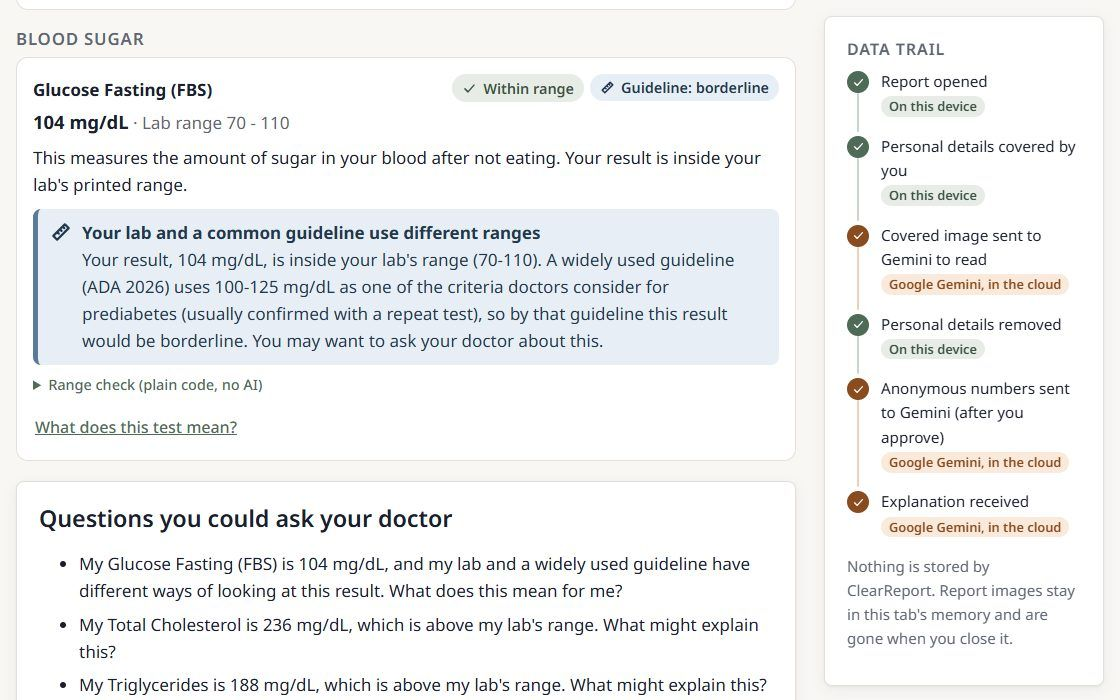
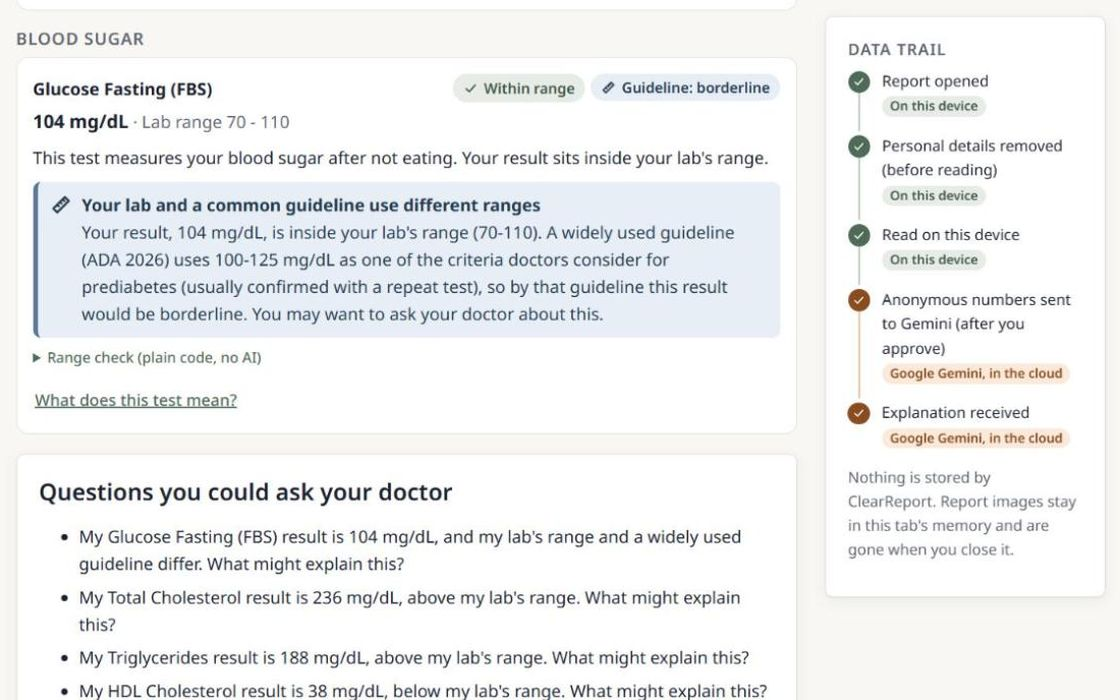
Landing hero from a Path 1 run of the sample
The hero and Open Graph images now come from the sample read privately in Chrome, so the data trail shows the three on-device steps before the anonymous numbers are sent. screens.ts no longer overwrites the hero with a Path 2 capture.

diff --git a/scripts/screens.ts b/scripts/screens.ts
@@ -79,14 +79,8 @@ for (const s of sizes) {
   await click('Approve and send these numbers')
   await page.getByRole('heading', { name: 'Summary' }).waitFor({ timeout: 120_000 })
   await shot('08-explanation')
-  if (ID === 'r2' && s.tag === 'desktop') {
-    // Landing page hero (public/landing/hero.jpg): the glucose card with its callout, beside the data trail.
-    await page.locator('.panel', { hasText: 'Blood sugar' }).evaluate((el) => window.scrollTo(0, el.getBoundingClientRect().top + window.scrollY - 28))
-    await page.waitForTimeout(400)
-    mkdirSync('public/landing', { recursive: true })
-    await page.screenshot({ path: 'public/landing/hero.jpg', type: 'jpeg', quality: 82, clip: { x: 80, y: 0, width: 1120, height: 700 } })
-    console.log(`public/landing/hero.jpg ${Math.round(statSync('public/landing/hero.jpg').size / 1024)} KB`)
-  }
+  // The landing hero (public/landing/hero.jpg, hero.webp, og.jpg) is captured by hand from a Path 1 run of the sample in Chrome
+  // with on-device AI, so its data trail shows the on-device steps. Playwright's Chrome has no on-device model.
   await ctx.close()
 }
 await browser.close()
